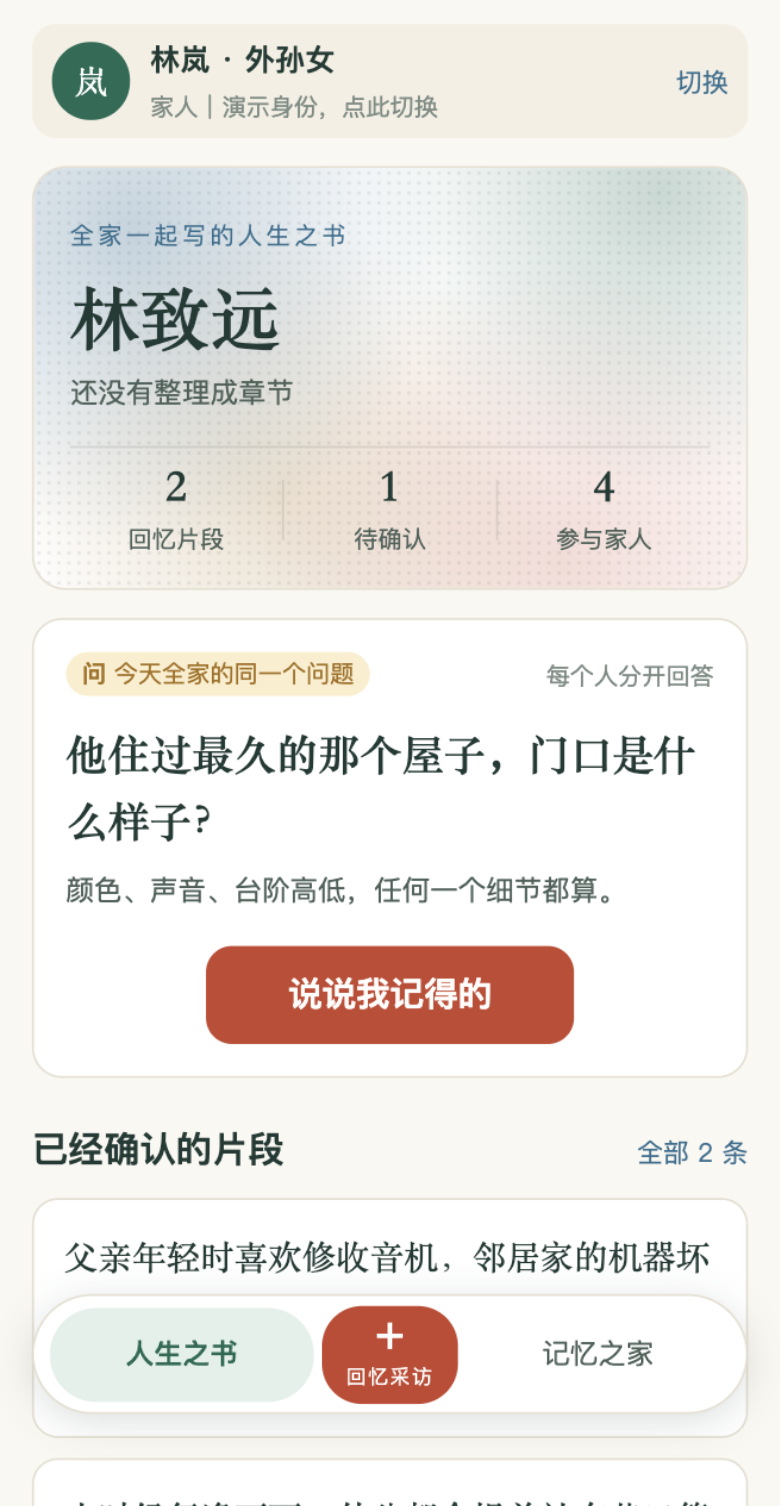
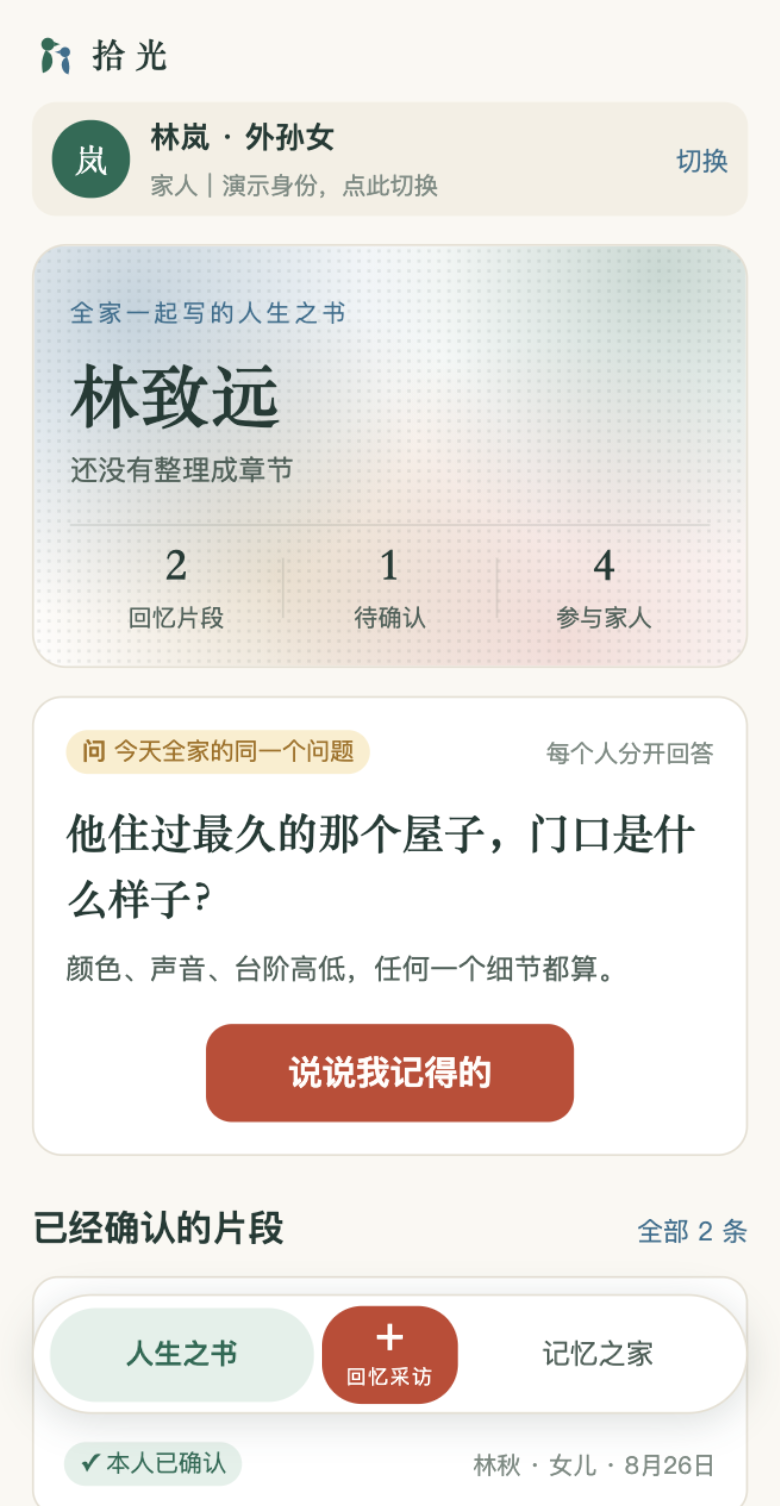
feat: add the two-bird mark, custom tab bar, and keyboard avoidance proof
Give the three-part bottom navigation real tab semantics with a
custom-tab-bar component. The life book and the memory home are now tab
pages reached by switchTab, so switching between them no longer grows the
page stack, and the memory home's way back no longer depends on the life
book happening to sit beneath it -- which would have broken the moment the
memory home became a launch page. The interview stays an ordinary page
pushed on top, so the WeChat back gesture still means what it means.

Draw the 双鸟相伴 mark by hand as SVG rather than generating it. A mark that
has to survive a 44rpx navigation slot needs the control, and hand-drawn
vector carries no risk of inheriting a signature or watermark from a
reference image. It took three passes to get there: the first two collapsed
into an unreadable blob at small sizes, and the second hid one bird behind
the other, which lost the whole point of the symbol. Enlarging the heads,
folding the beaks into the silhouette, and separating the two bodies fixed
both. The mark ships inline as a data URI, so the runtime package gains no
binary assets.

Verify the keyboard path that was previously written but unproven: feeding
realistic heights through bindkeyboardheightchange lifts the page correctly
and leaves the composer and the save buttons clear in both the chat and the
tidy-up stages. This exercises our layout, not a real device keyboard --
on-device preview is still outstanding and is recorded as such.

diff --git a/miniprogram/pages/index/index.ts b/miniprogram/pages/index/index.ts
@@ -86,6 +86,13 @@ Page({
   },
 
   onShow() {
+    // custom-tab-bar 是独立组件，切回本页时要自己同步选中态。
+    const tabBar = (this as unknown as { getTabBar?: () => { setData: (d: object) => void } | undefined })
+      .getTabBar;
+    if (typeof tabBar === "function") {
+      const bar = tabBar.call(this);
+      if (bar) bar.setData({ selected: 0 });
+    }
     this.refresh();
   },
 
@@ -123,7 +130,7 @@ Page({
   },
 
   openFragments() {
-    wx.navigateTo({ url: "/pages/room/room" });
+    wx.switchTab({ url: "/pages/room/room" });
   },
 
   openPending() {
@@ -136,11 +143,11 @@ Page({
       icon: "none",
       duration: 2200,
     });
-    wx.navigateTo({ url: "/pages/room/room" });
+    wx.switchTab({ url: "/pages/room/room" });
   },
 
   openMemoryHome() {
-    wx.navigateTo({ url: "/pages/room/room" });
+    wx.switchTab({ url: "/pages/room/room" });
   },
 
   toggleIdentityPicker() {

diff --git a/miniprogram/custom-tab-bar/index.ts b/miniprogram/custom-tab-bar/index.ts
@@ -1,0 +1,19 @@
+const TAB_PAGES = ["/pages/index/index", "/pages/room/room"];
+
+Component({
+  data: {
+    selected: 0,
+  },
+
+  methods: {
+    switchTab(event: { currentTarget: { dataset: { index: number } } }) {
+      const index = Number(event.currentTarget.dataset.index);
+      if (index === this.data.selected) return;
+      wx.switchTab({ url: TAB_PAGES[index] });
+    },
+
+    startInterview() {
+      wx.navigateTo({ url: "/pages/interview/interview" });
+    },
+  },
+});

diff --git a/miniprogram/pages/room/room.ts b/miniprogram/pages/room/room.ts
@@ -69,6 +69,12 @@ Page({
   },
 
   onShow() {
+    const tabBar = (this as unknown as { getTabBar?: () => { setData: (d: object) => void } | undefined })
+      .getTabBar;
+    if (typeof tabBar === "function") {
+      const bar = tabBar.call(this);
+      if (bar) bar.setData({ selected: 1 });
+    }
     this.refresh();
   },
 
@@ -199,6 +205,6 @@ Page({
   },
 
   goHome() {
-    wx.navigateBack();
+    wx.switchTab({ url: "/pages/index/index" });
   },
 });

diff --git a/DEVELOPMENT_LOG.md b/DEVELOPMENT_LOG.md
@@ -27,3 +27,7 @@
 - 「分享到记忆之家」实现为把片段设为家庭可见：不点分享就只留在人生之书，点了分享仍需老人确认属实才会出现在家庭时间线。原型没有老人确认这一层，本项目保留它，因为事实确认权是本作品的核心差异。
 - 采访中途退出不再只弹提示：会把聊天记录自动存成「只给老人看」的回忆片段，避免讲述内容丢失；显式保存后不会重复写入。
 - 上述行为在微信开发者工具里真实编译并逐条断言验证（追问卡片、标题截取、退出自动保存、分享与不分享的可见范围、类型标签）。
+- 底部三段式改为 `custom-tab-bar`：人生之书与记忆之家成为真正的 tab 页，改用 `switchTab` 互跳，采访页仍是普通页面压在 tab 之上。原先记忆之家的「人生之书」依赖 `navigateBack`，一旦记忆之家成为启动页就会失效，这个隐患随之消除。实测来回切换 8 次页面栈稳定为 1 层。
+- 新增原创「双鸟相伴」标志。手绘 SVG，不使用图像模型，也不临摹参考图，因此不存在第三方签名或水印风险。经三轮小尺寸可辨认性修正：加大头部、把喙并进轮廓、拉开两鸟间距，使 44rpx 导航级尺寸下仍能看出是一大一小两只鸟。
+- 标志以 SVG data URI 内联在 `app.wxss`，运行包内不新增二进制图片资源；提供双色、单色、浅底三个变体和 `docs/brand/README.md`。
+- 键盘避让在模拟器中按上报高度逐档验证（300px / 380px / 归零），对话阶段与整理阶段的输入区和底部按钮均未被遮挡。此为对 `bindkeyboardheightchange` 代码路径的验证，不等同于真机键盘测试，真机预览仍待补。

diff --git a/docs/brand/README.md b/docs/brand/README.md
@@ -1,0 +1,32 @@
+# 拾光 · 品牌资产
+
+## 标志：双鸟相伴
+
+两只抽象小鸟一大一小、相向依偎，表达老人与家人、两代人之间的陪伴与共同回忆。
+
+- 原创手绘矢量，不临摹任何参考图，不含第三方签名或水印。
+- 头部做大、喙并进轮廓、身体收紧，因此在导航与头像级尺寸下仍能辨认出是两只鸟。
+- 图形标与中文名称分开：本目录只提供图形标，"拾光"字样在界面里由 WXML 与图形标并排组合，不做成一张合并图片。
+
+| 文件 | 用途 |
+| --- | --- |
+| `logo-mark.svg` | 双色主版本，透明背景 |
+| `logo-mark-mono.svg` | 单色备用版本（深墨绿），用于单色印刷与低对比场景 |
+| `logo-mark-on-light.svg` | 浅色背景版本，带宣纸白圆角底 |
+
+## 在小程序里怎么用
+
+标志以 SVG data URI 内联在 `miniprogram/app.wxss` 的 `.brand-mark` / `.brand-mark-mono` 两个类里，
+用 `width` 和 `height` 控制尺寸即可：
+
+```html
+<view class="brand-mark" style="width:44rpx;height:44rpx"></view>
+```
+
+**运行包里不放二进制图片资源**，主包不会因为标志变大。修改 SVG 之后需要重新生成 `app.wxss` 里的 base64。
+
+## 配色
+
+- 玉石绿 `#176b54`：大鸟，也是已确认状态与品牌主色
+- 湖水蓝 `#2f6e8f`：小鸟，也是家庭共享区域
+- 深墨绿 `#1f3a34`：单色版本
